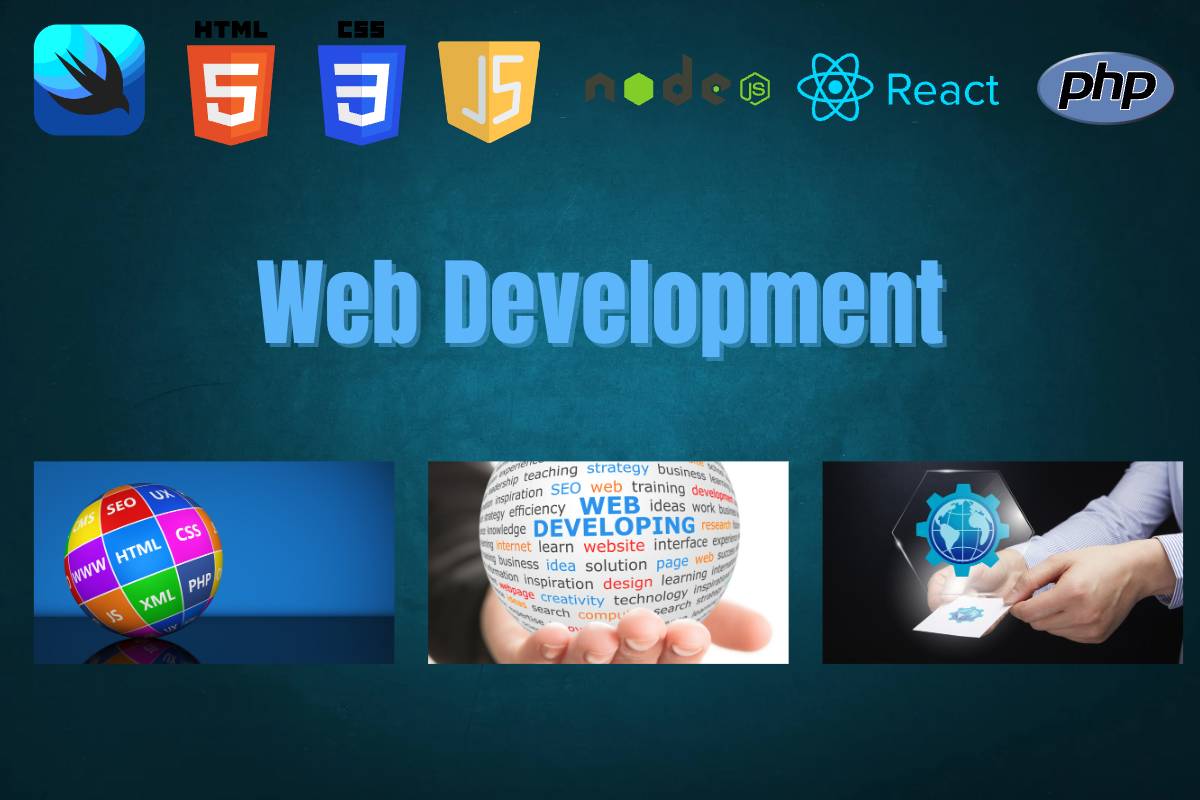
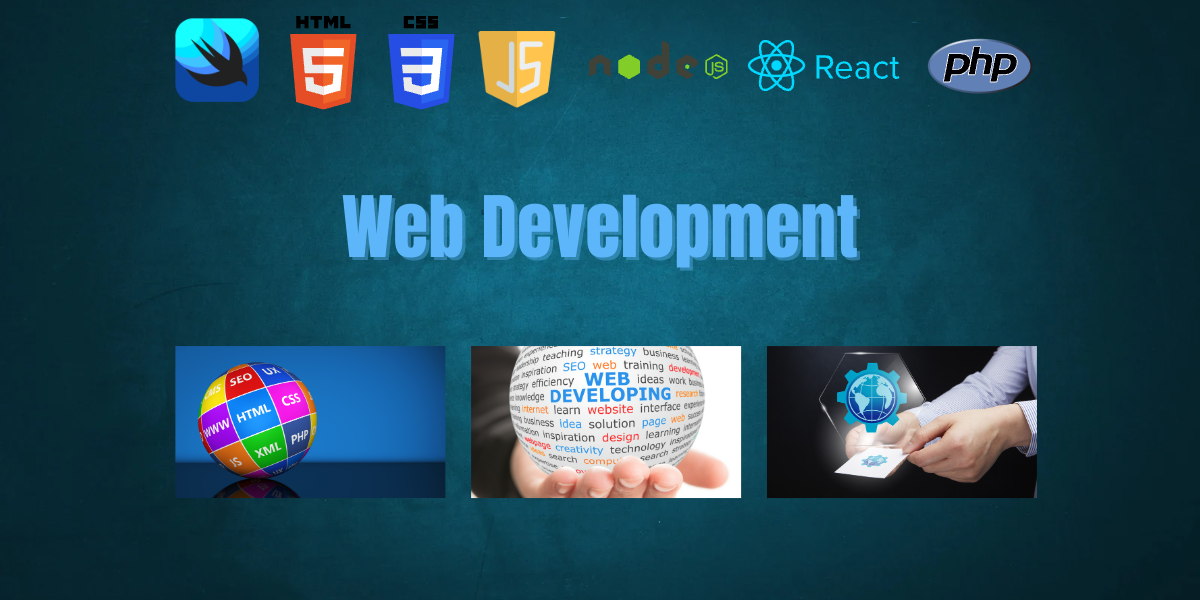
pic and href update

diff --git a/webdevelopment.html b/webdevelopment.html
@@ -67,8 +67,16 @@
     />
   </div>
   <br>
-    <!-- Create Content eg. Text based information, Video, Images jquery animations, slider for 
-        images (payment gateway for payments later) -->
+  <div class="contentTop reveal">
+    <div class="m-2 pb-3">
+      <h2 class="text-center text-secondary pb-sm-6">Web Development</h1>
+        <h3 class="text-center text-dark pb-sm-6 reveal">
+
+        Spinnwkop Web Design packages are flexible, we do anything from basic websites to fully functioning mobile apps, e-commerce stores and more.   <a href="pricing.html">Click Here for prices.</a>
+
+        </h3>
+
+    </div>
  <div class="card-deck">
     <div class="card">
       <a href="pricing.html"><img class="card-img-top"src="images/webdev/7.png" alt="webdev Pic 1"></a>
